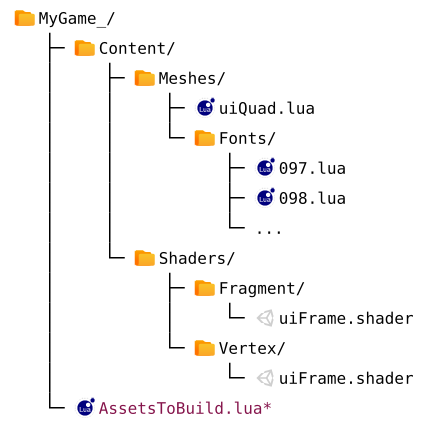
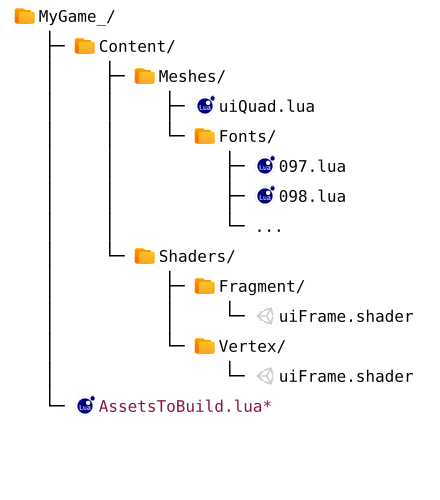
Enhance UI System Writeup: Add GitHub links, update installation instructions, and improve content structure

diff --git a/pages/posts/ui-system-writeup.js b/pages/posts/ui-system-writeup.js
@@ -1,10 +1,14 @@
-import { Badge, Code, Container, Flex, Heading, Image, Button, Box, ListItem, Text, UnorderedList } from '@chakra-ui/react'
+import { Badge, Code, Container, Flex, Heading, Image, Button, Icon, ListItem, Text, UnorderedList } from '@chakra-ui/react'
 import { Title } from '../../components/work'
 import P from '../../components/paragraph'
 import NextLink from 'next/link'
 import Layout from '../../components/layouts/article'
 import { ChevronRightIcon } from '@chakra-ui/icons'
 import CodeBlock from '../../components/code-block'
+import {
+    SiGithub
+} from 'react-icons/si'
+import { FiTag } from 'react-icons/fi';
 
 const UISystemWriteup = () => (
     <Layout title="UI System Writeup">
@@ -40,6 +44,9 @@ const UISystemWriteup = () => (
                     Dependency on Graphics project
                 </ListItem>
                 <ListItem>
+                    A high tolerance for meshes
+                </ListItem>
+                <ListItem>
                     Render State Bits
                 </ListItem>
                 <ListItem>
@@ -51,9 +58,35 @@ const UISystemWriteup = () => (
                 Installation
             </Heading>
             <Text>
-                To install, download the <Code>UI.zip</Code> file using the link below.
-                The project comes with:
+                To install, download the <Code>.zip</Code> file using the link below.
             </Text>
+
+            <Flex justify="center" align="center" gap={3} my={5}>
+                <NextLink
+                    href="https://github.com/jeffohh/eae6320-ui-system"
+                    target="_blank"
+                >
+                    <Button
+                        leftIcon={<Icon as={SiGithub} />}
+                        colorScheme="teal"
+                    >
+                        View Source
+                    </Button>
+                </NextLink>
+
+                <NextLink
+                    href="https://github.com/jeffohh/eae6320-ui-system/releases"
+                    target="_blank"
+                >
+                    <Button
+                        leftIcon={<Icon as={FiTag} />}
+                        colorScheme="teal"
+                    >
+                        Releases
+                    </Button>
+                </NextLink>
+            </Flex>
+
             <UnorderedList paddingLeft={4} ml={4} my={4}>
                 <ListItem>
                     <Text>A UI folder that represents the UI project
@@ -63,36 +96,32 @@ const UISystemWriteup = () => (
                     <Code>uiQuad.lua</Code>, a normalized mesh used for rendering box frames
                 </ListItem>
                 <ListItem>
-                    <Code>Fonts/...</Code>, mesh representations of letters
-                </ListItem>
-                <ListItem>
                     <Code>Vertex/uiFrame.shader</Code>, a shader used to translate uiQuad to screen space
                 </ListItem>
                 <ListItem>
                     <Code>Fragment/uiFrame.shader</Code>, a shader used to color UI
                 </ListItem>
+
+                <ListItem>
+                    Font Packs
+                </ListItem>
+
+                <UnorderedList paddingLeft={4} ml={4} marginBottom={4}>
+                    <ListItem>
+                        Comic Sans MS
+                    </ListItem>
+                    <ListItem>
+                        JetBrains Mono
+                    </ListItem>
+                </UnorderedList>
             </UnorderedList>
 
+            
+            
             <Flex gap={4} align="center">
                 <Image src="/images/posts/ui-system-writeup/directory-1.png" alt="Directory Image 1" width="50%" />
                 <Image src="/images/posts/ui-system-writeup/directory-2.png" alt="Directory Image 2" width="50%" />
             </Flex>
-
-            <Box align="center" my={4}>
-                <NextLink href={"https://drive.google.com/file/d/1iE14j04xc8Ofif3Nr5jyxvw9Eb5pC-s7/view?usp=sharing"} target='_blank'>
-                    <Button rightIcon={<ChevronRightIcon/>} colorScheme='teal'>
-                        Google Drive Download (.zip)
-                    </Button>
-                </NextLink>
-            </Box>
-
-            <Box align="center" my={4}>
-                <NextLink href={"/posts"} target='_blank'>
-                    <Button rightIcon={<ChevronRightIcon/>} colorScheme='teal'>
-                        View Source (github + releases coming soon i swear)
-                    </Button>
-                </NextLink>
-            </Box>
 
             <Heading as="h6" fontSize={16} mt={6} mb={3}>
                 Updating <Code>AssetsToBuild.lua</Code>
@@ -116,7 +145,7 @@ local module = {
     }
 }
 
-+for i = 97, 98 do -- dynamically add to meshes table ('a' = 97, 'b' = 98)
++for i = 33, 126 do -- dynamically add to meshes table ('!' = 33, '~' = 126)
 +   module.meshes[#module.meshes + 1] = string.format( "Meshes/Fonts/%03d.lua", i )
 +end
 
@@ -136,15 +165,15 @@ return module`}</CodeBlock>
     m_frame->anchorX = 0.5f; // [0.0f - 1.0f]
     m_frame->anchorY = 0.5f; // [0.0f - 1.0f]
     m_frame->position = UI:sUDim2(0.0f, 0.0f, 0.0f, 0.0f); // scaleX, offsetX, scaleY, offsetY
-    m_frame->size = UI:sUDim2(0.25f, 0.0f, 0.25f, 0.0f); // scaleX, offsetX, scaleY, offsetY
+    m_frame->size = UI:sUDim2(0.25f, 0.0f, 0.25f, 0.0f);   // scaleX, offsetX, scaleY, offsetY
     m_frame->backgroundColor = UI::sColor::FromRGBA(255, 0, 0, 255)
 
     // 3. Creating & Adjusting a Label (extends cUIFrame)
     m_label = m_uiManager.CreateElement<UI::cUILabel>();
     m_label->textColor = UI::sColor::FromRGBA(255, 255, 255, 255);
-    m_label->text = "hello world";
-    m_label->textHeight = 2.0f;
-    m_label->letterSpacing = 17.0f;
+    m_label->text = "hello world";         // displayed text
+    m_label->textHeight = 2.0f;            // size of text
+    m_label->letterSpacing = 17.0f;        // spacing between letters
     m_label->alignX = eTextAlignX::Center; // eTextAlignX::Left, eTextAlignX::Center, eTextAlignX::Right
     m_label->alignY = eTextAlignX::Center; // eTextAlignX::Top, eTextAlignX::Center, eTextAlignX::Bottom
 
